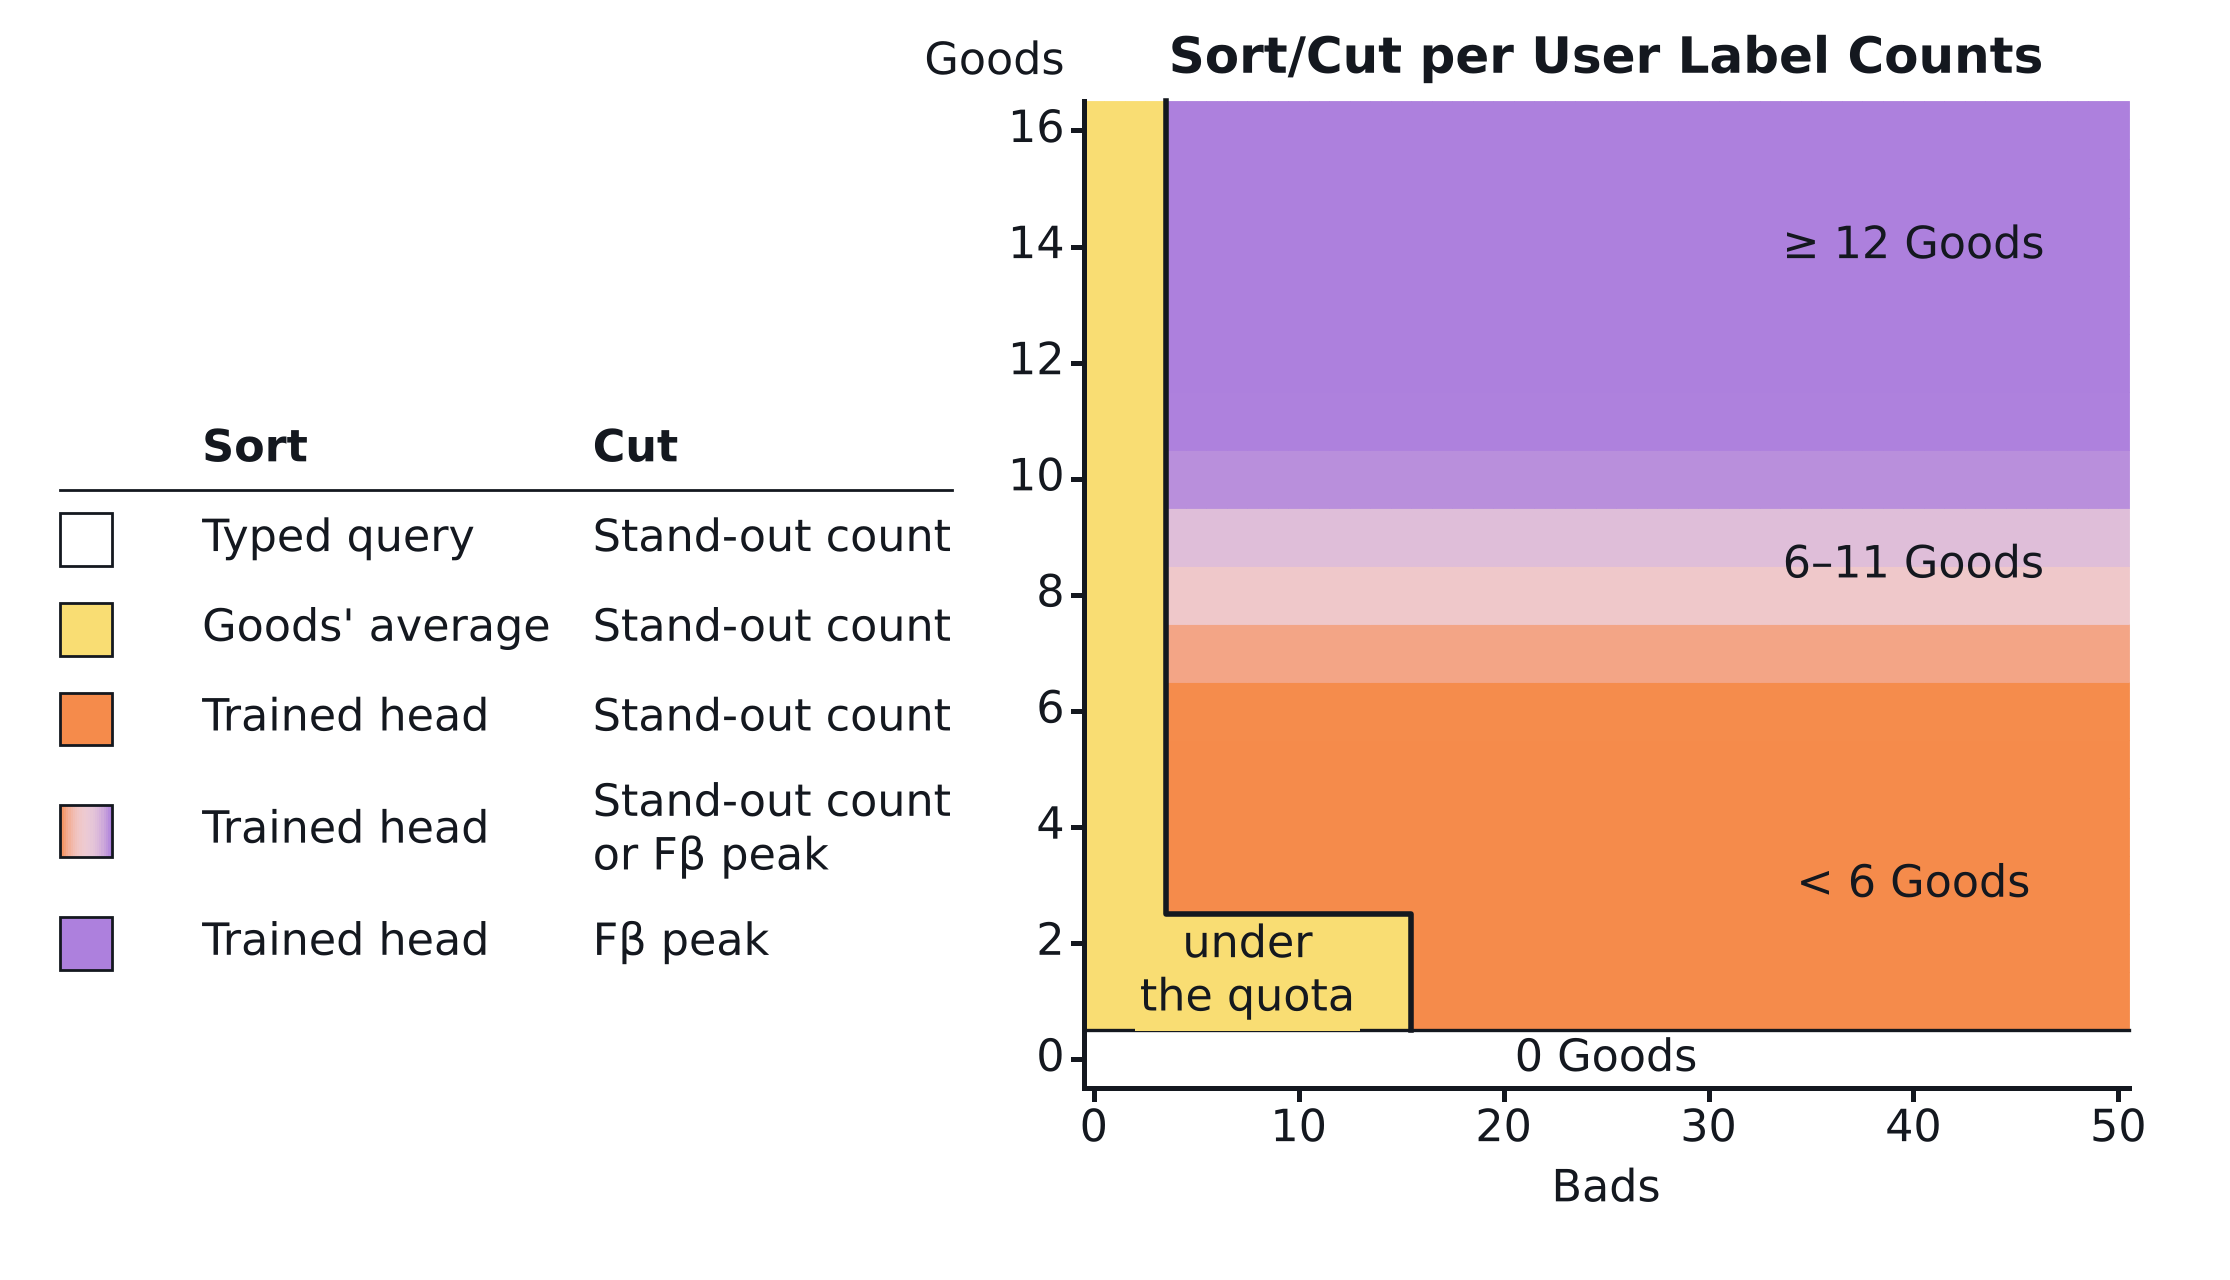
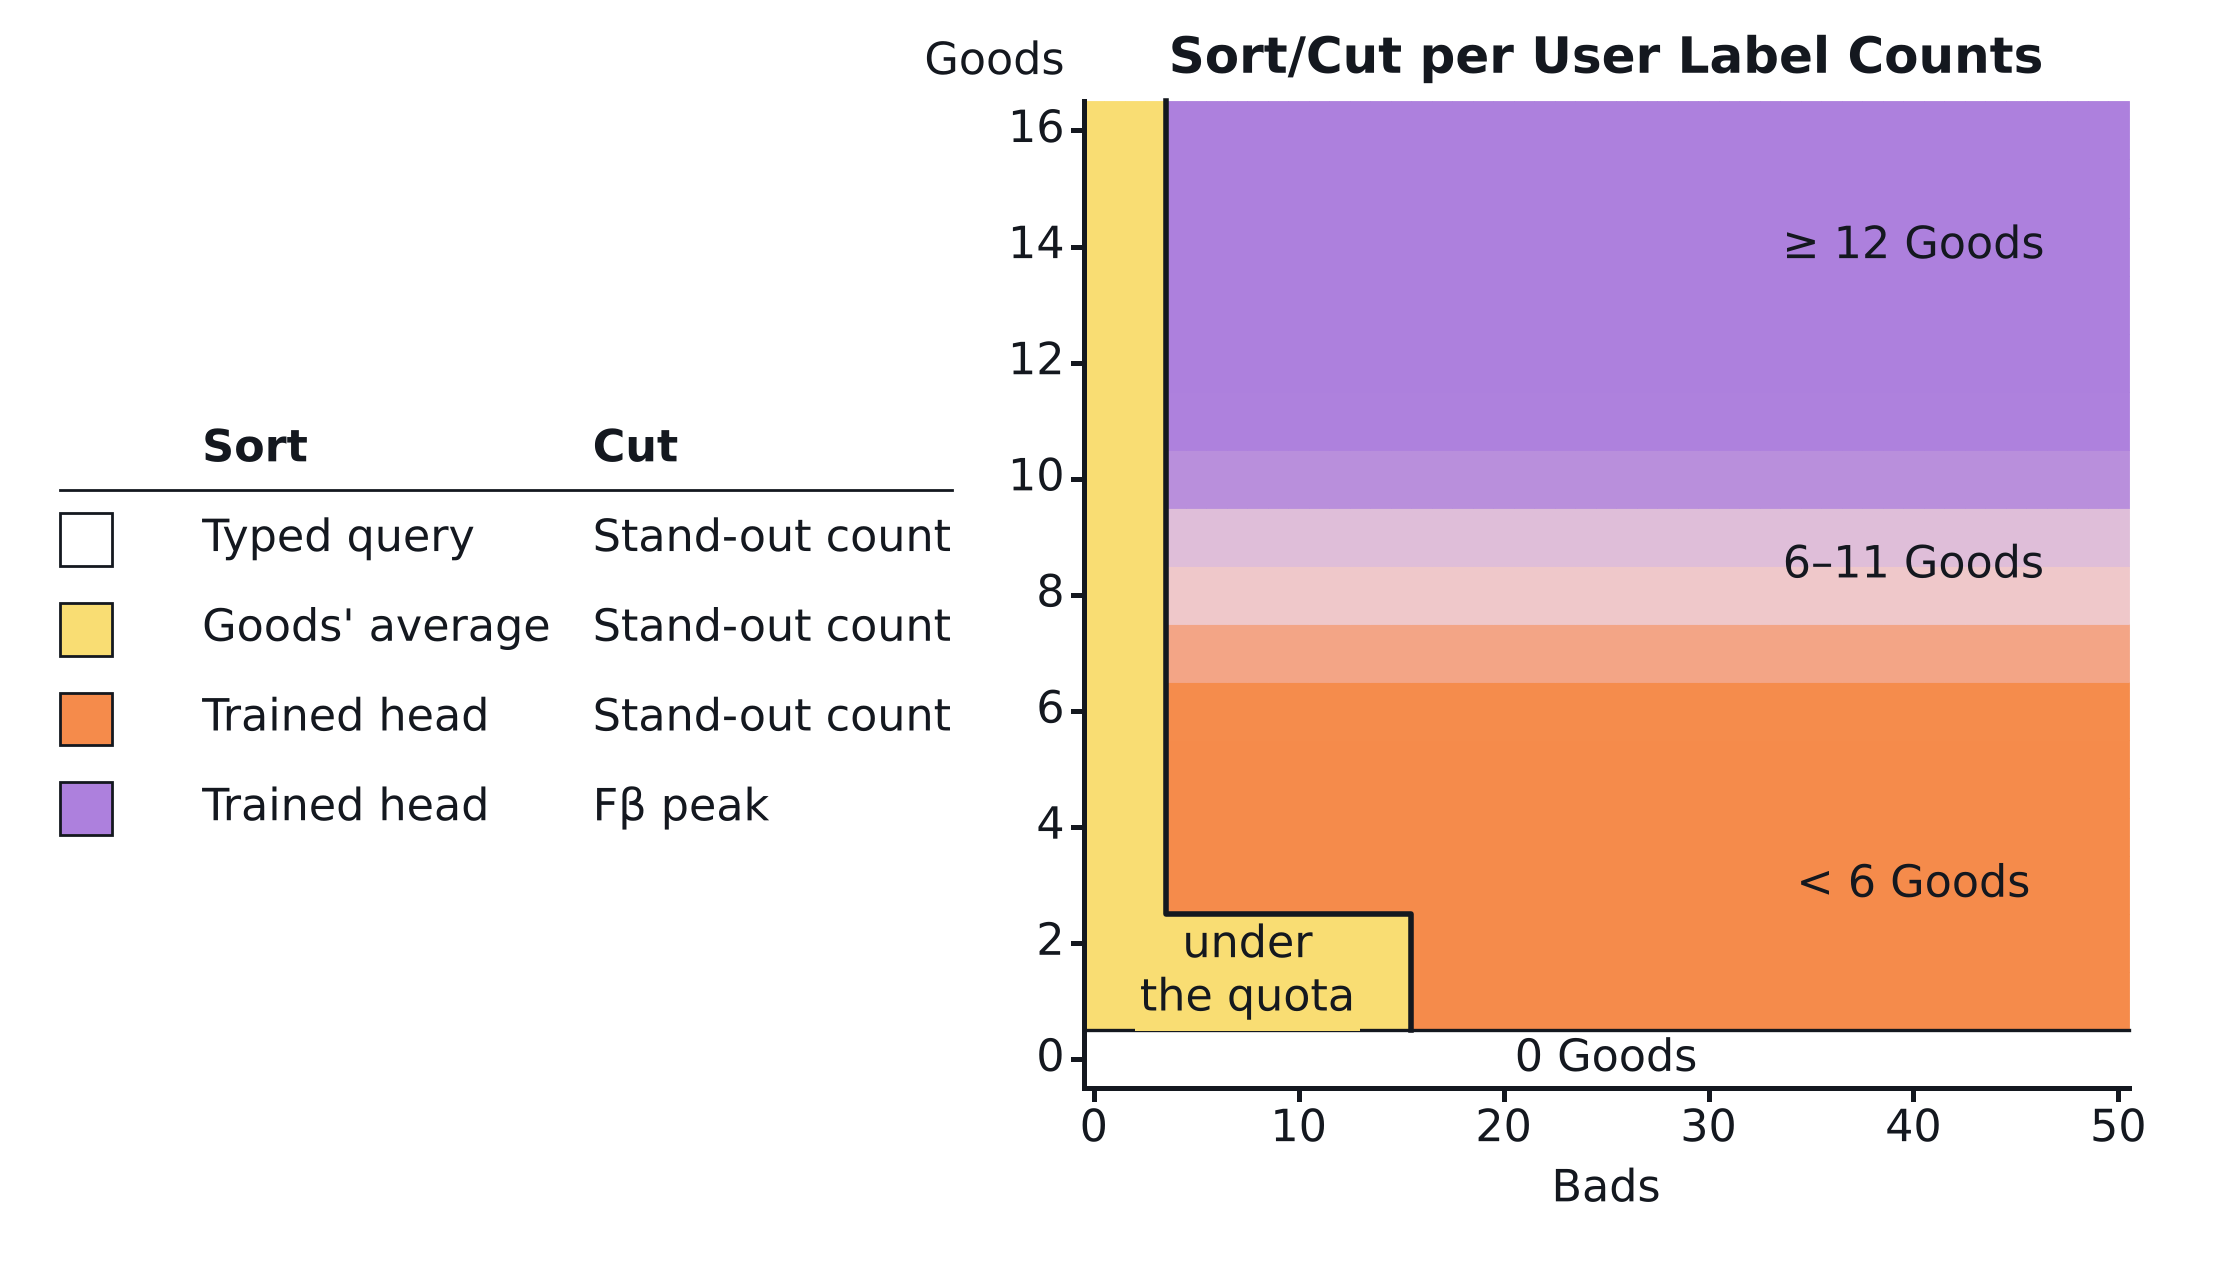
Slides: Lay of the Land's key drops the blended row
A blend of orange and purple returns one or the other, which their own
rows already say (owner). The table's gradient-swatch code goes with it.

Claude-Session: https://claude.ai/code/session_015JYDYJSoKrimV2DtawW9RR

diff --git a/slides/figs/src/make-calib-figs.py b/slides/figs/src/make-calib-figs.py
@@ -6463,9 +6463,9 @@ LAND_TABLE = (
     (1, "none", "Typed query", "Stand-out count"),
     (1, "centroid", "Goods' average", "Stand-out count"),
     (2, "count", "Trained head", "Stand-out count"),
-    # The band the folds' split decides: what it returns is either of the rows
-    # either side, so it is a row of the key and not a name on the map.
-    (3, "split", "Trained head", "Stand-out count\nor Fβ peak"),
+    # No row for the band the folds' split decides: a blend of orange and
+    # purple returns one or the other, which their own rows already say
+    # (owner, 2026-10-13).
     (3, "labels", "Trained head", "Fβ peak"),
 )
 IN_TABLE = (
@@ -6483,8 +6483,7 @@ def _map_table(ax: plt.Axes, rows: tuple, stage: int, hatched: tuple[str, int] |
 
     *hatched* is ``(fill key, stage)``: from that stage a hatched swatch joins
     that row's, for a hatch on the map that shares the row's sort and cut.
-    White swatches are outlined so they show; the ``"split"`` row's swatch is
-    Lay of the Land's band, orange to purple; a `MAP_HATCHED_KEYS` row's is
+    White swatches are outlined so they show; a `MAP_HATCHED_KEYS` row's is
     another row's fill, hatched, for a hatch on the map with a return of its own. A two-line row takes half a
     row more, and every row keeps its place on every page.
     """
@@ -6499,11 +6498,7 @@ def _map_table(ax: plt.Axes, rows: tuple, stage: int, hatched: tuple[str, int] |
         if stage < first:
             continue
         y = head - MAP_TABLE_STEP * (0.5 + sum(heights[:slot]) + heights[slot] / 2)
-        if key == "split":
-            for i, x in enumerate(np.linspace(0.0, MAP_TABLE_SWATCH, 25)[:-1]):
-                ax.add_patch(Rectangle((xs["swatch"] + x, y - half), MAP_TABLE_SWATCH / 24, MAP_TABLE_SWATCH,
-                                       facecolor=_land_mix(i / 23), edgecolor="none", zorder=3))  # fmt: skip
-        fill = "none" if key == "split" else LAND_FILL[MAP_HATCHED_KEYS.get(key, key)]
+        fill = LAND_FILL[MAP_HATCHED_KEYS.get(key, key)]
         ax.add_patch(Rectangle((xs["swatch"], y - half), MAP_TABLE_SWATCH, MAP_TABLE_SWATCH, facecolor=fill,
                                edgecolor=INK, hatch="//" if key in MAP_HATCHED_KEYS else None, linewidth=1.0,
                                zorder=3))  # fmt: skip

diff --git a/slides/fragments/lay-of-the-land.md b/slides/fragments/lay-of-the-land.md
@@ -30,7 +30,7 @@
      three votes in ten, rounded by a draw seeded from the labels (#3286), so
      two labelsets of one size split differently: a fold holds out three
      Goods from as few as six in hand, and always from twelve. From six to
-     eleven, the key's blended row, a row is orange blended toward purple by the share of labelsets that get
+     eleven, a row is orange blended toward purple by the share of labelsets that get
      the labels line, paler the nearer that is to even: about one in ten at
      7 Goods, four in ten at 8, seven at 9, 95 in a hundred at 10, all from
      12. Each row shows its mean; the exact share moves a few points with
